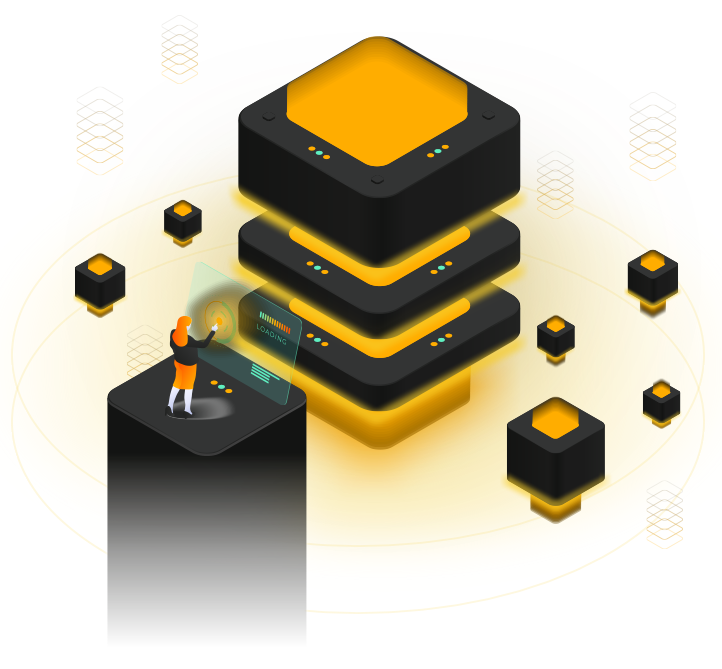
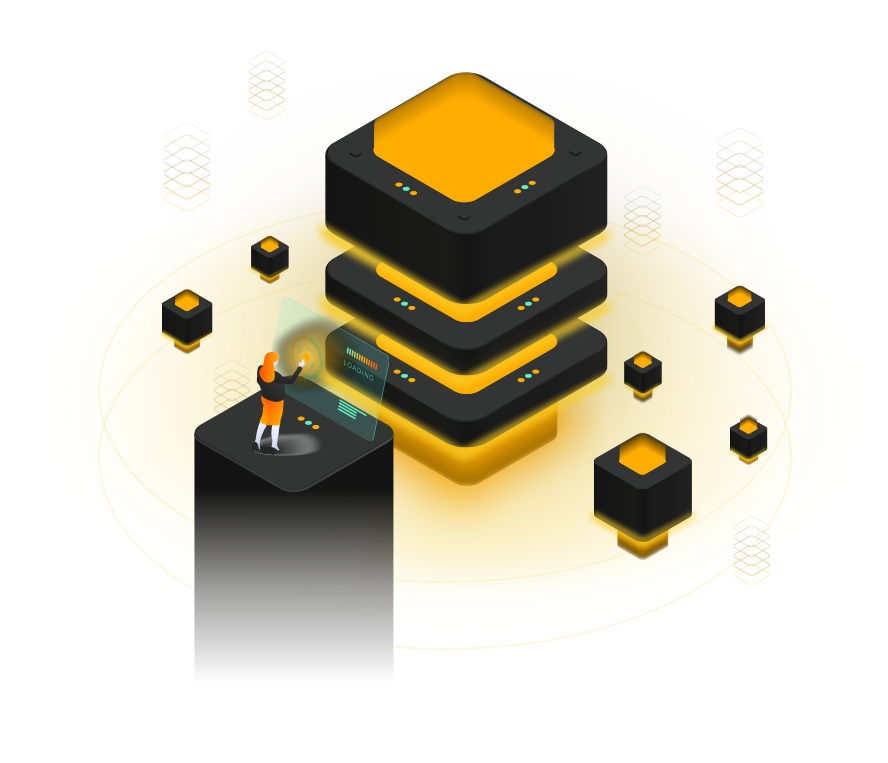
update images

diff --git a/index.html b/index.html
@@ -6544,13 +6544,13 @@
                             <p>Mechanism of 25% profit from the field NFT marketplace participates in the mechanism of LP contract and lock in the next year (2022), for LP of BNB</p>
                             <a class="btn" href="#">Read more</a>
                         </div>
-                        <div class="col-sm-6 about-right order-first order-md-last" style="text-align: center;">
-                            <img src="images/block1.png" alt="about" style="max-height: 520px;">
+                        <div class="col-sm-6 about-right order-last" style="text-align: center;">
+                            <img src="images/block1.png" alt="about" style="max-height: 650px;">
                         </div>
                     </div>
                     <div class="row align-items-center pt-4">
                         <div class="col-sm-6 about-left" style="text-align: center;">
-                            <img src="images/block2.png" alt="about">
+                            <img src="images/block2.png" alt="about" style="max-width: 100%;">
                         </div>
                         <div class="col-sm-6 about-right order-first order-md-last">
                             <div class="sec-title"><h3>IDO Solution</h3></div>
